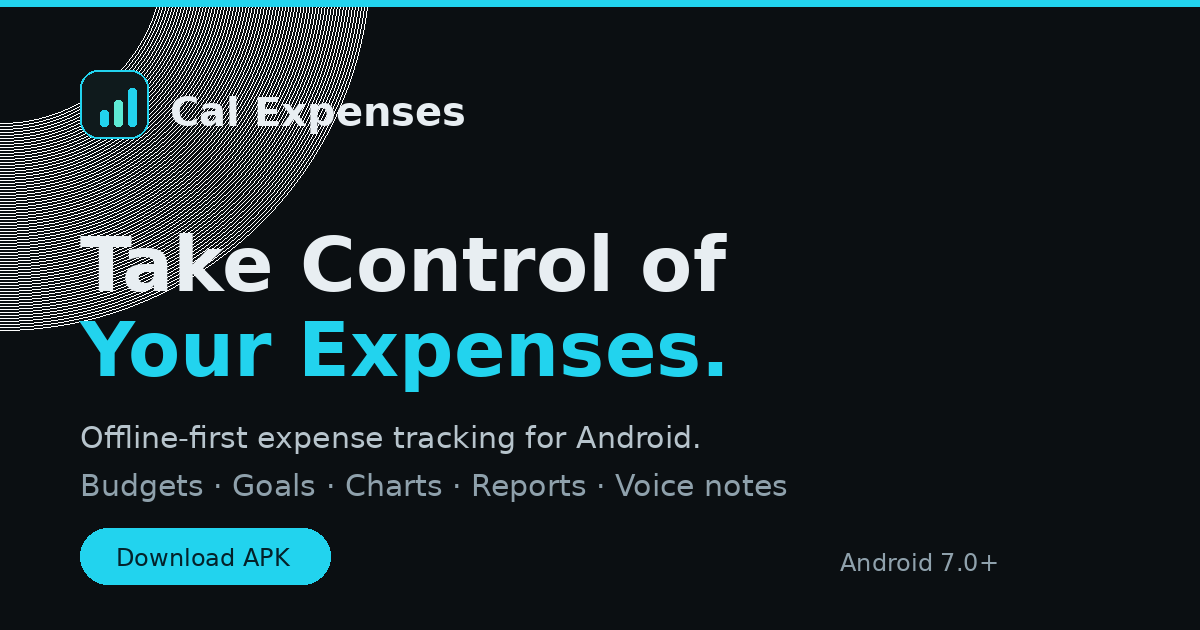
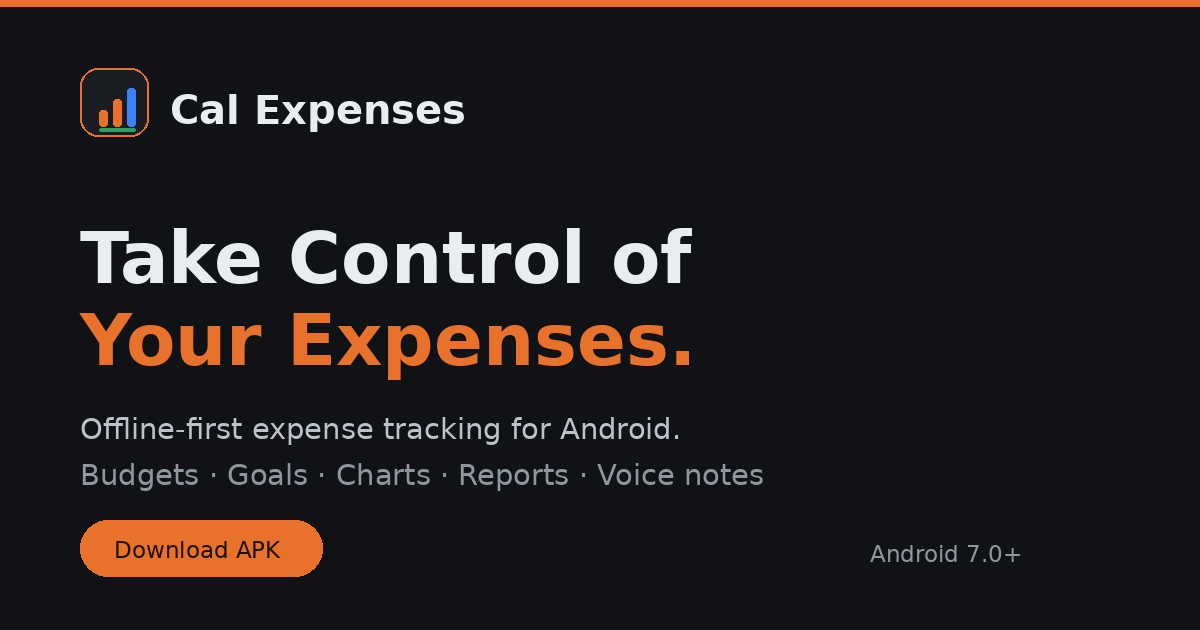
Add real app screenshots and a professional orange/graphite palette
- Gallery now shows five real captures from the app (Home, Transactions,
  Budgets, Reports, Cal AI); the first also fills the hero device frame
- Palette reworked to orange primary with graphite, green and blue
  supporting colours; neon cyan removed
- Brand marks and social image regenerated to match
- Gallery lays out as 1/2/3/5 columns so five screens never look lopsided

Changed region(s): [[0.0, 0.0, 1.0, 0.6333], [0.0617, 0.6635, 0.6783, 0.9349], [0.6783, 0.8746, 0.8633, 0.9048]]

diff --git a/assets/css/styles.css b/assets/css/styles.css
@@ -4,25 +4,31 @@
    ==========================================================================*/
 
 :root {
-  --bg:            #0B0F12;
-  --bg-soft:       #0E1418;
-  --surface:       #121A1F;
-  --surface-2:     #172129;
-  --border:        #223039;
-  --border-soft:   #1A242B;
+  /* Graphite base */
+  --bg:            #101215;
+  --bg-soft:       #15181C;
+  --surface:       #1A1E23;
+  --surface-2:     #22272D;
+  --border:        #2C333A;
+  --border-soft:   #232931;
 
-  --text:          #E8EEF2;
-  --text-dim:      #B7C4CC;
-  --muted:         #9BACB6;
+  --text:          #E9EDF0;
+  --text-dim:      #BAC3CA;
+  --muted:         #8E979F;
 
-  --accent:        #22D3EE;
-  --accent-2:      #5EEAD4;
-  --accent-ink:    #04222A;
-  --accent-wash:   rgba(34, 211, 238, 0.15);
-  --accent-line:   rgba(34, 211, 238, 0.36);
+  /* Professional palette: orange primary, blue and green supporting.
+     Deliberately not neon. */
+  --accent:        #E8722B;   /* orange - primary */
+  --accent-2:      #3B82F6;   /* blue   - secondary */
+  --green:         #2E9E63;   /* green  - tertiary */
+  --accent-ink:    #1F1206;   /* text on orange */
+  --accent-wash:   rgba(232, 114, 43, 0.14);
+  --accent-line:   rgba(232, 114, 43, 0.38);
+  --blue-wash:     rgba(59, 130, 246, 0.14);
+  --blue-line:     rgba(59, 130, 246, 0.36);
 
-  --ok:            #34D399;
-  --warn:          #FBBF24;
+  --ok:            #2E9E63;
+  --warn:          #E8722B;
 
   --radius-sm: 10px;
   --radius:    16px;
@@ -102,9 +108,9 @@ p  { margin: 0 0 1rem; }
 
 .btn-primary {
   background: var(--accent); color: var(--accent-ink);
-  box-shadow: 0 8px 24px -10px rgba(34,211,238,.7);
+  box-shadow: 0 8px 22px -12px rgba(232,114,43,.55);
 }
-.btn-primary:hover { background: var(--accent-2); }
+.btn-primary:hover { background: #F0813F; }
 
 .btn-ghost {
   background: transparent; color: var(--text);
@@ -170,7 +176,7 @@ p  { margin: 0 0 1rem; }
 .hero { position: relative; overflow: hidden; padding: clamp(2.5rem, 7vw, 5rem) 0 clamp(2rem, 6vw, 4rem); }
 .hero::before {
   content: ""; position: absolute; inset: -30% 40% 40% -10%;
-  background: radial-gradient(closest-side, rgba(34,211,238,.14), transparent 70%);
+  background: radial-gradient(closest-side, rgba(232,114,43,.13), transparent 70%);
   pointer-events: none;
 }
 .hero-grid { display: grid; gap: 2.5rem; align-items: center; }
@@ -187,7 +193,7 @@ p  { margin: 0 0 1rem; }
   font-size: .9rem; color: var(--text-dim);
 }
 .hero-meta li { display: flex; align-items: center; gap: .45rem; }
-.hero-meta svg { width: 15px; height: 15px; color: var(--accent); flex: none; }
+.hero-meta svg { width: 16px; height: 16px; color: var(--green); flex: none; }
 
 /* ---------------------------------------------------------------- device */
 .device {
@@ -213,9 +219,9 @@ p  { margin: 0 0 1rem; }
 .device-screen img { width: 100%; height: 100%; object-fit: cover; }
 
 .screen-placeholder { color: var(--muted); font-size: .82rem; line-height: 1.5; }
-.screen-placeholder svg { width: 30px; height: 30px; margin: 0 auto .6rem; color: var(--accent); opacity: .85; }
+.screen-placeholder svg { width: 30px; height: 30px; margin: 0 auto .6rem; color: var(--accent-2); opacity: .85; }
 .screen-placeholder strong { display: block; color: var(--text-dim); font-size: .86rem; margin-bottom: .3rem; }
-.screen-placeholder code { font-family: var(--mono); font-size: .72rem; color: var(--accent); }
+.screen-placeholder code { font-family: var(--mono); font-size: .72rem; color: var(--accent-2); }
 
 /* Branded panel shown in the hero until real screenshots are supplied. */
 .brand-panel { display: grid; place-items: center; gap: .6rem; text-align: center; }
@@ -224,8 +230,8 @@ p  { margin: 0 0 1rem; }
 .brand-panel .bp-sub { font-size: .74rem; letter-spacing: .16em; text-transform: uppercase; color: var(--muted); }
 .brand-panel .bp-bars { display: flex; align-items: flex-end; gap: 5px; height: 44px; margin-top: .5rem; }
 .brand-panel .bp-bars i { display: block; width: 9px; border-radius: 3px; background: var(--accent); }
-.brand-panel .bp-bars i:nth-child(1) { height: 40%; opacity: .5; }
-.brand-panel .bp-bars i:nth-child(2) { height: 65%; opacity: .75; }
+.brand-panel .bp-bars i:nth-child(1) { height: 40%; opacity: .45; }
+.brand-panel .bp-bars i:nth-child(2) { height: 65%; opacity: .7; }
 .brand-panel .bp-bars i:nth-child(3) { height: 100%; }
 .brand-panel .bp-bars i:nth-child(4) { height: 78%; background: var(--accent-2); }
 
@@ -259,7 +265,7 @@ p  { margin: 0 0 1rem; }
 .card-icon {
   width: 44px; height: 44px; border-radius: 12px;
   display: grid; place-items: center; margin-bottom: 1rem; flex: none;
-  background: var(--accent-wash); border: 1px solid var(--accent-line);
+  background: var(--blue-wash); border: 1px solid var(--blue-line);
   color: var(--accent-2);
 }
 .card-icon svg { width: 22px; height: 22px; }
@@ -273,9 +279,11 @@ p  { margin: 0 0 1rem; }
 .tag-accent { background: var(--accent-wash); color: var(--accent); border-color: var(--accent-line); }
 
 /* --------------------------------------------------------------- gallery */
+/* Five screens: 1 / 2 / 3 / 5 columns so the row is never left lopsided. */
 .gallery { display: grid; gap: 1rem; }
-@media (min-width: 620px) { .gallery { grid-template-columns: repeat(2, 1fr); } }
-@media (min-width: 960px) { .gallery { grid-template-columns: repeat(3, 1fr); } }
+@media (min-width: 560px)  { .gallery { grid-template-columns: repeat(2, 1fr); } }
+@media (min-width: 820px)  { .gallery { grid-template-columns: repeat(3, 1fr); } }
+@media (min-width: 1080px) { .gallery { grid-template-columns: repeat(5, 1fr); gap: .85rem; } }
 
 .shot {
   background: var(--surface); border: 1px solid var(--border-soft);
@@ -306,7 +314,7 @@ p  { margin: 0 0 1rem; }
 }
 .download-panel::before {
   content: ""; position: absolute; inset: -40% -20% auto auto; width: 420px; height: 420px;
-  background: radial-gradient(closest-side, rgba(34,211,238,.16), transparent 70%);
+  background: radial-gradient(closest-side, rgba(232,114,43,.15), transparent 70%);
   pointer-events: none;
 }
 .download-grid { display: grid; gap: 2rem; align-items: center; position: relative; }
@@ -321,10 +329,10 @@ p  { margin: 0 0 1rem; }
 .spec .v { color: var(--text); font-weight: 600; }
 
 .note {
-  margin-top: 1.25rem; padding: .9rem 1rem;
+  margin-top: 1.25rem; padding: .95rem 1.1rem;
   border-radius: var(--radius-sm);
   background: var(--bg-soft); border: 1px solid var(--border-soft);
-  font-size: .85rem; color: var(--muted);
+  font-size: .85rem; line-height: 1.65; color: var(--muted);
 }
 .note strong { color: var(--text-dim); }
 
@@ -342,6 +350,11 @@ p  { margin: 0 0 1rem; }
   border-radius: 999px; background: var(--accent-wash); border: 1px solid var(--accent-line);
   color: var(--accent); font-weight: 700; font-size: .85rem;
 }
+
+/* Screenshot gallery: real app captures in clean device frames */
+.shot img { background: var(--bg-soft); display: block; }
+.shot figcaption { display: flex; align-items: baseline; gap: .5rem; }
+.shot figcaption strong { color: var(--text); }
 .step p { margin: 0; color: var(--muted); font-size: .92rem; }
 
 /* ------------------------------------------------------------------- faq */
@@ -358,7 +371,7 @@ p  { margin: 0 0 1rem; }
 }
 .faq summary::-webkit-details-marker { display: none; }
 .faq summary::after {
-  content: "+"; color: var(--accent); font-size: 1.25rem; line-height: 1; flex: none;
+  content: "+"; color: var(--green); font-size: 1.25rem; line-height: 1; flex: none;
 }
 .faq details[open] summary::after { content: "\2013"; }
 .faq details p { color: var(--muted); font-size: .92rem; margin: 0 0 1rem; }
@@ -369,7 +382,7 @@ p  { margin: 0 0 1rem; }
 .prose h3 { margin-top: 1.5rem; color: var(--text-dim); }
 .prose ul { color: var(--text-dim); padding-left: 1.15rem; }
 .prose li { margin-bottom: .45rem; }
-.prose code { font-family: var(--mono); font-size: .85em; color: var(--accent); }
+.prose code { font-family: var(--mono); font-size: .85em; color: var(--accent-2); }
 
 .callout {
   background: var(--surface); border: 1px solid var(--border);

diff --git a/assets/js/config.js b/assets/js/config.js
@@ -32,20 +32,29 @@ window.CAL_CONFIG = {
   minAndroid: "Android 7.0 (API 24) or newer",
 
   /* ---- Screenshots -------------------------------------------------------
-   * EMPTY ON PURPOSE. No real Cal Expenses screenshots were supplied, and the
-   * reference images used for design inspiration belong to other apps, so they
-   * are deliberately NOT shown as this app's UI.
+   * Real captures from the Cal Expenses app running on Android. The first entry
+   * is also shown inside the hero device frame.
    *
-   * To add real screenshots: put the images in ./screenshots/ then list them
-   * here. The gallery renders whatever is listed and shows a tidy placeholder
-   * while the list is empty.
-   *
-   *   screenshots: [
-   *     { src: "./screenshots/dashboard.png", alt: "Home dashboard showing balance, income and expenses", caption: "Home" },
-   *     { src: "./screenshots/transactions.png", alt: "Transactions grouped by date with filter chips", caption: "Transactions" }
-   *   ],
+   * To replace or add: drop the image into ./screenshots/ and add an entry here.
+   * Keep them around 720px wide (about 9:20) so the gallery stays light.
    * ----------------------------------------------------------------------*/
-  screenshots: [],
+  screenshots: [
+    { src: "./screenshots/home.jpg",
+      alt: "Cal Expenses home screen showing the October balance, income and expenses, quick add buttons and a six-month spending chart",
+      caption: "Home" },
+    { src: "./screenshots/transactions.jpg",
+      alt: "Transactions screen with a search field, All/Expenses/Income/Transfers filter chips and entries grouped under Today",
+      caption: "Transactions" },
+    { src: "./screenshots/budgets.jpg",
+      alt: "Budgets screen showing the total monthly budget, the amount remaining and a per-category progress bar",
+      caption: "Budgets" },
+    { src: "./screenshots/reports.jpg",
+      alt: "Reports screen with the month summary, a six-month trend chart and an Export PDF report button",
+      caption: "Reports" },
+    { src: "./screenshots/cal-ai.jpg",
+      alt: "Cal AI assistant screen with suggested prompts and an optional spending-summary switch",
+      caption: "Cal AI" }
+  ],
 
   /* ---- Contact -----------------------------------------------------------
    * Leave contactEmail empty to show the GitHub issues link instead.

diff --git a/index.html b/index.html
@@ -6,7 +6,7 @@
 
 <title>Cal Expenses — Personal Expense Tracker for Android</title>
 <meta name="description" content="Discover Cal Expenses, a simple way to manage your expenses. Explore the features and download the Android APK from the official website.">
-<meta name="theme-color" content="#0B0F12">
+<meta name="theme-color" content="#101215">
 <meta name="color-scheme" content="dark light">
 <meta name="robots" content="index, follow">
 <meta name="author" content="Umaiz Sufiyan">
@@ -206,8 +206,8 @@
       <p class="eyebrow">Screenshots</p>
       <h2>A look at the app</h2>
       <p>
-        Screenshots of Cal Expenses are supplied by its author and appear here as they
-        are added. No mock-up is presented as the real interface.
+        Real screenshots captured from Cal Expenses running on Android — the home
+        dashboard, transactions, budgets, reports and the Cal AI assistant.
       </p>
     </div>
 

diff --git a/privacy.html b/privacy.html
@@ -6,7 +6,7 @@
 
 <title>Privacy Policy — Cal Expenses</title>
 <meta name="description" content="How the Cal Expenses Android app stores and handles your data: local-first, with the optional Cal AI assistant as the only feature that sends anything off your device.">
-<meta name="theme-color" content="#0B0F12">
+<meta name="theme-color" content="#101215">
 <meta name="color-scheme" content="dark light">
 <meta name="robots" content="index, follow">
 <meta name="author" content="Umaiz Sufiyan">

diff --git a/screenshots/README.md b/screenshots/README.md
@@ -1,24 +1,27 @@
-# Screenshots
+# screenshots/
 
-This folder is empty on purpose.
+Real captures from the Cal Expenses app running on Android:
 
-No real Cal Expenses screenshots were available when the site was built, and the
-reference images used for visual inspiration belong to other applications, so
-they are deliberately **not** presented as this app's interface.
+| File | Screen |
+| --- | --- |
+| `home.jpg` | Home dashboard |
+| `transactions.jpg` | Transactions |
+| `budgets.jpg` | Budgets |
+| `reports.jpg` | Reports |
+| `cal-ai.jpg` | Cal AI assistant |
 
-## How to add real screenshots
+They are listed in `../assets/js/config.js` under `screenshots`. The first entry is also
+shown inside the hero device frame, and the captions come from each entry's `caption`.
 
-1. Take screenshots on your device (Power + Volume Down) or from an emulator.
-2. Save them here, e.g. `dashboard.png`, `transactions.png`, `budgets.png`.
-3. Open `../assets/js/config.js` and fill in the `screenshots` array:
+## Replacing or adding screenshots
+
+1. Save the new image here (roughly 720px wide, 9:20 ratio, under ~120 KB).
+2. Add or edit the matching entry in `CAL_CONFIG.screenshots`:
 
 ```js
-screenshots: [
-  { src: "./screenshots/dashboard.png",    alt: "Home dashboard showing balance, income and expenses", caption: "Home" },
-  { src: "./screenshots/transactions.png", alt: "Transactions grouped by date with filter chips",     caption: "Transactions" },
-  { src: "./screenshots/budgets.png",      alt: "Monthly budget with per-category progress bars",     caption: "Budgets" }
-]
+{ src: "./screenshots/goals.jpg",
+  alt: "Goals screen showing savings goals with percentage progress",
+  caption: "Goals" }
 ```
 
-That is the only change needed - the gallery on the home page renders whatever is
-listed there. Keep images around 1080x2160 (or any 9:19.5 ratio) and under ~300 KB each.
+Keep the `alt` text descriptive — it is what screen-reader users hear.
